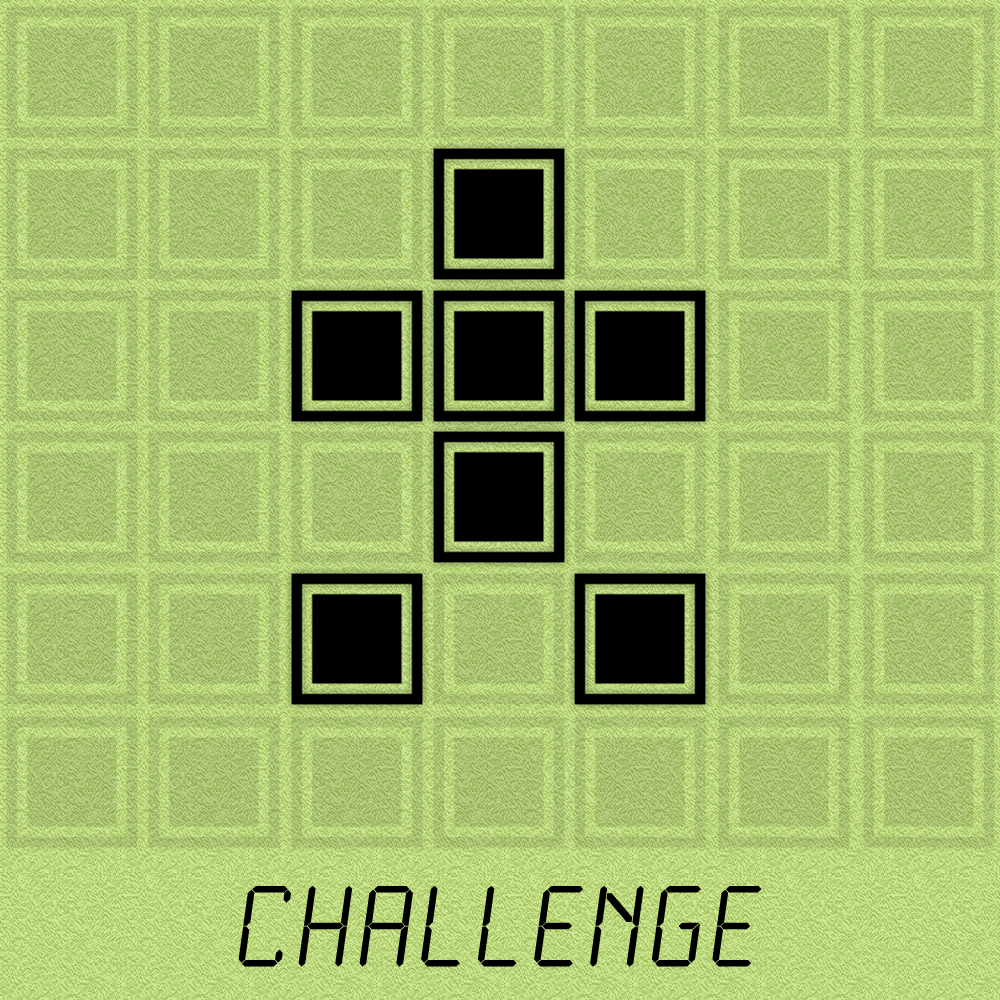
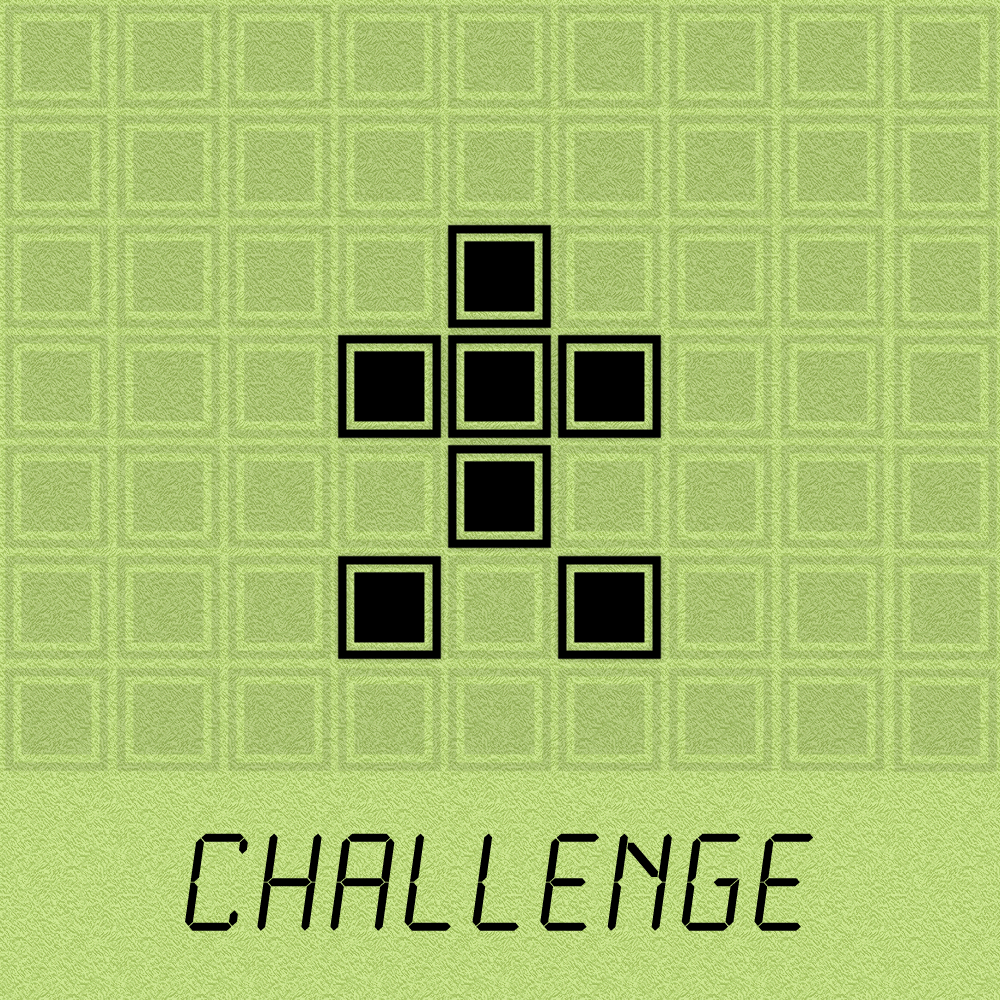
versão paga e ajuste no ícone

diff --git a/Car Racing Challenge/ConfigsView.swift b/Car Racing Challenge/ConfigsView.swift
@@ -139,7 +139,7 @@ class ConfigsView:AbstractView
         }
         addAction(label: "RATE S2", selector: "rateHandler", key:nil, active:true);
         
-        if(PurchaseController.getInstance().hasPurchased())
+        if(PurchaseController.getInstance().hasPurchased() && !Configs.FULL_VERSION_MODE)
         {
             addAction();
             addAction(label: "FULL VERSION", selector: nil, key:nil, active:false);
@@ -211,13 +211,17 @@ class ConfigsView:AbstractView
         self.podium.y = self.container.y + self.container.height;
         self.fb.y = self.podium.y;
         self.tt.y = self.podium.y;
-        self.fb.center.x = self.podium.center.x;
-        self.tt.center.x = self.podium.center.x;
-        self.bestScore.y = self.container.y - self.bestScore.height * 1.5;
+        
+        if(self.fb.alpha == 0)
+        {
+            self.fb.center.x = self.podium.center.x;
+            self.tt.center.x = self.podium.center.x;
+            self.bestScore.y = self.container.y - self.bestScore.height * 1.5;
+        }
         
         UIView.animateWithDuration(AnimationTime.Default, delay: 0.3, options: nil, animations: {
-            self.fb.x -= self.podium.width * 1.15;
-            self.tt.x += self.podium.width * 1.15;
+            self.fb.center.x = self.podium.center.x - (self.podium.width * 1.15);
+            self.tt.center.x = self.podium.center.x + (self.podium.width * 1.15);
             self.fb.alpha = 1;
             self.tt.alpha = 1;
             }, completion: nil);

diff --git a/Car Racing Challenge/PurchaseController.swift b/Car Racing Challenge/PurchaseController.swift
@@ -39,7 +39,7 @@ class PurchaseController:NSObject, SKProductsRequestDelegate, SKPaymentTransacti
             }
         }
         
-        _hasPurchased = DataProvider.getBoolData(SuiteNames.SuiteConfigs, key: SuiteNames.KeyAds)// || Configs.DEBUG_MODE;
+        _hasPurchased = (Configs.FULL_VERSION_MODE) ? true : DataProvider.getBoolData(SuiteNames.SuiteConfigs, key: SuiteNames.KeyAds);
     }
     
     func hasPurchased() -> Bool

diff --git a/Car Racing Challenge/Extensions/Configs.swift b/Car Racing Challenge/Extensions/Configs.swift
@@ -11,8 +11,9 @@ import Foundation
 struct Configs
 {
     //flags
-    static var DEBUG_MODE          : Bool = true;
+    static var DEBUG_MODE          : Bool = false;
     static var SAMPLE_MODE         : Bool = false;
+    static var FULL_VERSION_MODE   : Bool = true;
     
     //infos
     static var APP_ID              : String = "979116721";
